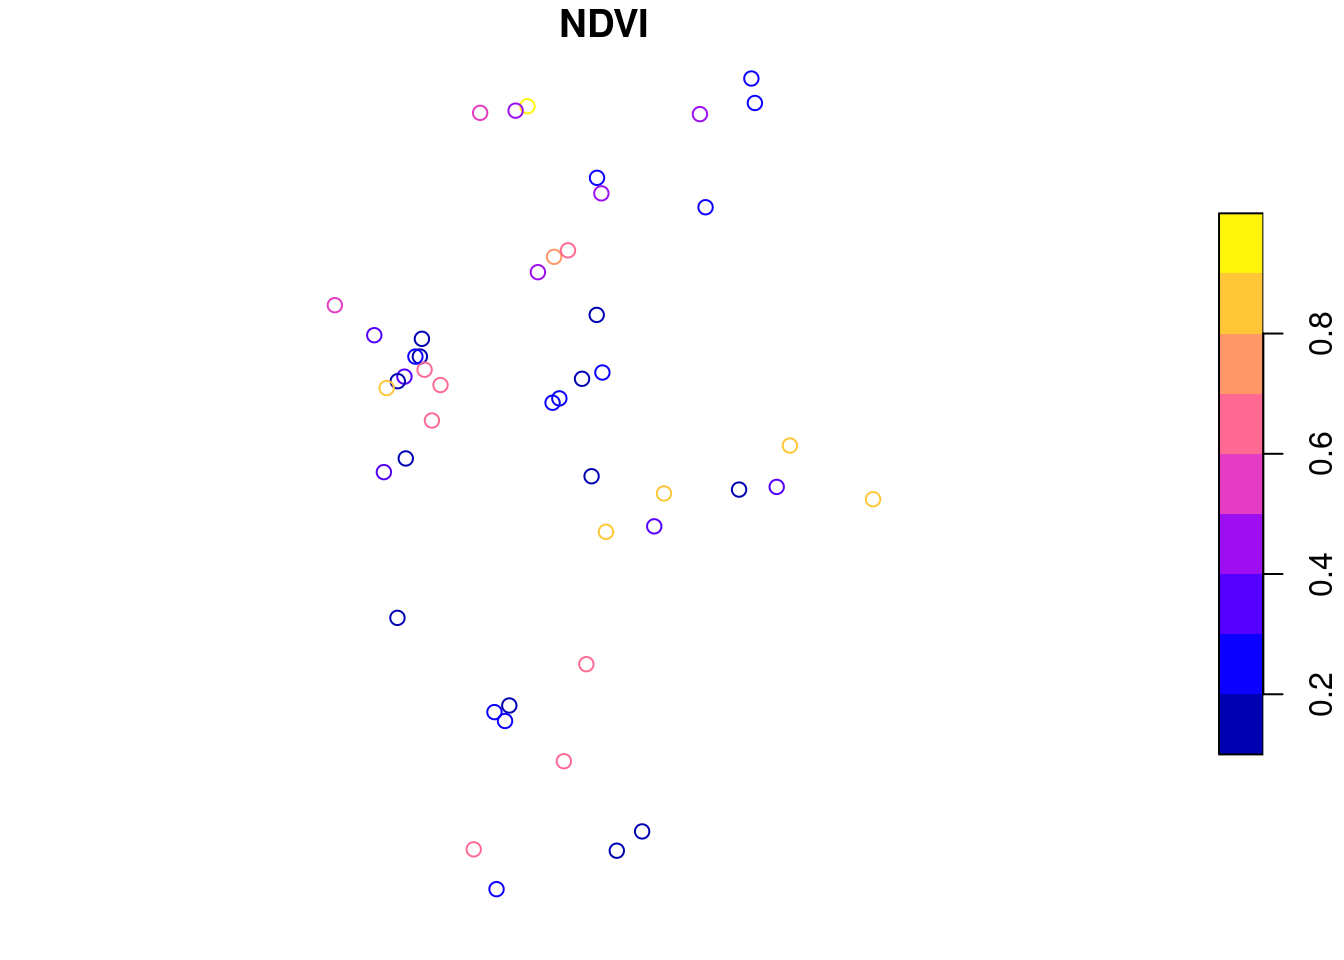
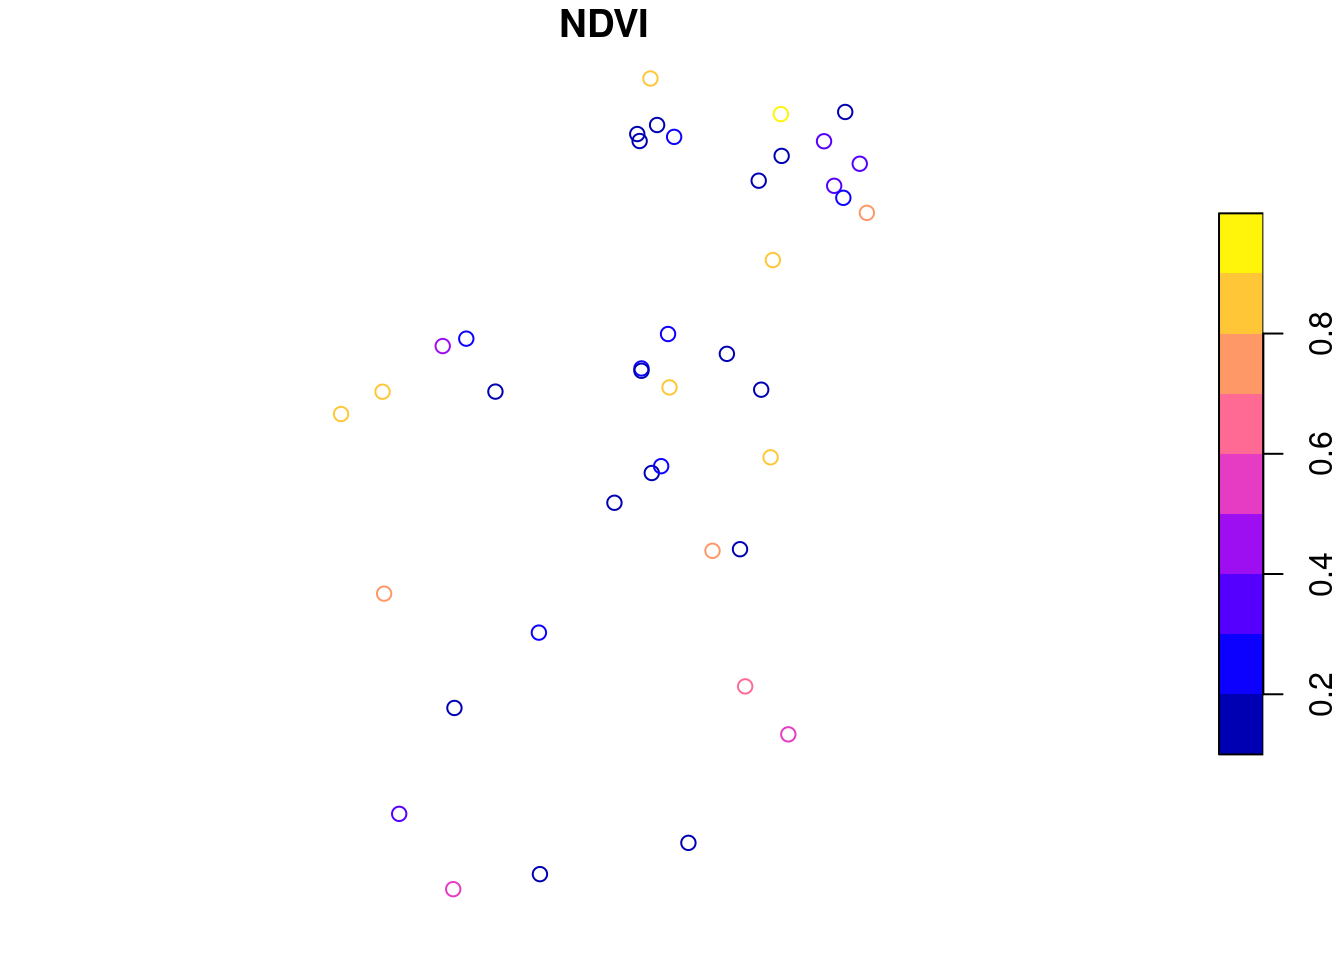
update ex03

diff --git a/docs/ex03.html b/docs/ex03.html
@@ -271,21 +271,21 @@ div.csl-indent {
 <span id="cb4-12"><a href="#cb4-12" aria-hidden="true" tabindex="-1"></a>items</span></code><button title="Copy to Clipboard" class="code-copy-button"><i class="bi"></i></button></pre></div>
 <div class="cell-output cell-output-stdout">
 <pre><code>##      xmin      ymin      xmax      ymax 
-##  7.911385 48.007580 14.909136 54.597501 
+##  6.349523 47.962605 14.570052 54.729144 
 ## ###STACItemCollection
-## - matched feature(s): 4246
-## - features (4246 item(s) / 0 not fetched):
+## - matched feature(s): 5582
+## - features (5582 item(s) / 0 not fetched):
+##   - S2B_32ULV_20180930_0_L2A
 ##   - S2B_32UME_20180930_0_L2A
 ##   - S2B_32UNF_20180930_0_L2A
-##   - S2B_32UMB_20180930_0_L2A
-##   - S2B_32UMD_20180930_0_L2A
-##   - S2B_32UNC_20180930_0_L2A
-##   - S2B_32UPF_20180930_0_L2A
-##   - S2B_32UMA_20180930_0_L2A
-##   - S2B_32UMC_20180930_0_L2A
-##   - S2B_32UNE_20180930_0_L2A
-##   - S2B_32UMV_20180930_0_L2A
-##   - ... with 4236 more feature(s).
+##   - S2B_32ULF_20180930_0_L2A
+##   - S2B_31UGQ_20180930_0_L2A
+##   - S2B_31UGU_20180930_0_L2A
+##   - S2B_31UGV_20180930_0_L2A
+##   - S2B_32ULA_20180930_0_L2A
+##   - S2B_31UGP_20180930_0_L2A
+##   - S2B_31UGR_20180930_0_L2A
+##   - ... with 5572 more feature(s).
 ## - assets: 
 ## overview, thumbnail, metadata, B11, B01, B12, B02, B03, B04, AOT, B05, B06, B07, B08, B8A, B09, WVP, visual, SCL, info
 ## - other field(s): 
@@ -315,31 +315,31 @@ div.csl-indent {
 <div class="sourceCode cell-code" id="cb7"><pre class="sourceCode r code-with-copy"><code class="sourceCode r"><span id="cb7-1"><a href="#cb7-1" aria-hidden="true" tabindex="-1"></a>s2_collection <span class="ot">=</span> <span class="fu">image_collection</span>(<span class="st">"S2_de_2018.db"</span>)</span>
 <span id="cb7-2"><a href="#cb7-2" aria-hidden="true" tabindex="-1"></a>s2_collection</span></code><button title="Copy to Clipboard" class="code-copy-button"><i class="bi"></i></button></pre></div>
 <div class="cell-output cell-output-stdout">
-<pre><code>## Image collection object, referencing 1358 images with 5 bands
+<pre><code>## Image collection object, referencing 1719 images with 5 bands
 ## Images:
-##                       name      left      top   bottom     right
-## 1 S2B_32UMB_20180930_0_L2A  7.560563 51.45114 50.45528  8.908829
-## 2 S2B_32UMD_20180930_0_L2A  7.500956 53.24953 52.25346  9.146262
-## 3 S2B_32UNC_20180930_0_L2A  8.999721 52.35046 51.62562  9.383598
-## 4 S2B_32UPF_20180930_0_L2A 10.540773 55.03692 54.40879 10.913343
-## 5 S2B_32UMA_20180930_0_L2A  7.588101 50.55099 49.55650  8.451982
-## 6 S2B_32UMC_20180930_0_L2A  7.531544 52.35038 51.35444  9.143276
+##                       name     left      top   bottom    right
+## 1 S2B_32ULV_20180930_0_L2A 6.230946 49.64597 48.63304 7.763442
+## 2 S2B_31UGQ_20180930_0_L2A 5.714101 49.61960 48.58836 7.285031
+## 3 S2B_31UGU_20180930_0_L2A 5.927835 53.21198 52.17549 7.634167
+## 4 S2B_32ULA_20180930_0_L2A 6.178682 50.54532 49.53174 7.752769
+## 5 S2B_31UGP_20180930_0_L2A 5.667023 48.72092 47.69193 7.208270
+## 6 S2B_31UGR_20180930_0_L2A 5.763559 50.51810 49.48563 7.365728
 ##              datetime        srs
 ## 1 2018-09-30T10:44:11 EPSG:32632
-## 2 2018-09-30T10:44:11 EPSG:32632
-## 3 2018-09-30T10:44:11 EPSG:32632
+## 2 2018-09-30T10:44:11 EPSG:32631
+## 3 2018-09-30T10:44:11 EPSG:32631
 ## 4 2018-09-30T10:44:11 EPSG:32632
-## 5 2018-09-30T10:44:11 EPSG:32632
-## 6 2018-09-30T10:44:11 EPSG:32632
-## [ omitted 1352 images ] 
+## 5 2018-09-30T10:44:11 EPSG:32631
+## 6 2018-09-30T10:44:11 EPSG:32631
+## [ omitted 1713 images ] 
 ## 
 ## Bands:
 ##   name offset scale unit nodata image_count
-## 1  B02      0     1                    1358
-## 2  B03      0     1                    1358
-## 3  B04      0     1                    1358
-## 4  B08      0     1                    1358
-## 5  SCL      0     1                    1358</code></pre>
+## 1  B02      0     1                    1719
+## 2  B03      0     1                    1719
+## 3  B04      0     1                    1719
+## 4  B08      0     1                    1719
+## 5  SCL      0     1                    1719</code></pre>
 </div>
 </div>
 <div class="cell">
@@ -358,7 +358,7 @@ div.csl-indent {
 ##                low             high  count pixel_size chunk_size
 ## t       2018-04-01       2018-10-02     37        P5D          1
 ## y 6055573.54251774 7370993.54251774 131542         10        768
-## x 827616.484143196  1686796.4841432  85918         10        768
+## x 630847.596478828 1686797.59647883 105595         10        768
 ## 
 ## Bands:
 ##   name offset scale nodata unit
@@ -374,56 +374,49 @@ div.csl-indent {
 <span id="cb11-2"><a href="#cb11-2" aria-hidden="true" tabindex="-1"></a><span class="fu">nrow</span>(ndvi_obs)</span>
 <span id="cb11-3"><a href="#cb11-3" aria-hidden="true" tabindex="-1"></a>ndvi_obs</span></code><button title="Copy to Clipboard" class="code-copy-button"><i class="bi"></i></button></pre></div>
 <div class="cell-output cell-output-stdout">
-<pre><code>## [1] 48
+<pre><code>## [1] 41
 ##    FID       time      NDVI
-## 1   59 2018-05-06 0.8400395
-## 2   11 2018-05-21 0.9251531
-## 3   40 2018-05-21 0.8567150
-## 4    6 2018-05-11 0.8954530
-## 5   49 2018-06-25 0.4926108
-## 6   45 2018-07-10 0.2454473
-## 7   61 2018-06-30 0.6845111
-## 8   10 2018-06-30 0.3199060
-## 9   72 2018-07-15 0.2299230
-## 10  55 2018-06-05 0.6982809
-## 11  26 2018-07-15 0.2339880
-## 12   1 2018-05-26 0.8159437
-## 13  86 2018-06-30 0.3837580
-## 14   5 2018-07-05 0.3259259
-## 15  95 2018-08-19 0.4900243
-## 16  75 2018-08-09 0.1328333
-## 17  28 2018-06-25 0.6762503
-## 18  24 2018-06-05 0.7050465
-## 19  50 2018-07-15 0.1948677
-## 20  90 2018-08-14 0.1112782
-## 21  47 2018-07-25 0.2321518
-## 22  69 2018-07-05 0.6953368
-## 23  33 2018-06-25 0.6020202
-## 24   7 2018-07-15 0.2767469
-## 25  63 2018-07-15 0.2311416
-## 26   3 2018-06-05 0.6657963
-## 27  12 2018-08-19 0.1945780
-## 28  48 2018-07-20 0.1244323
-## 29  21 2018-06-30 0.4771399
-## 30  25 2018-06-30 0.4945055
-## 31  58 2018-07-15 0.1320587
-## 32  38 2018-07-15 0.2028777
-## 33  35 2018-07-25 0.2218453
-## 34  85 2018-06-05 0.8156192
-## 35  89 2018-07-25 0.2615385
-## 36  94 2018-09-03 0.5734682
-## 37  97 2018-09-18 0.6500899
-## 38  34 2018-08-19 0.1534307
-## 39  83 2018-08-14 0.1389144
-## 40  84 2018-07-15 0.3922215
-## 41  23 2018-08-04 0.1628106
-## 42  98 2018-07-05 0.5445732
-## 43  37 2018-09-18 0.3810790
-## 44   4 2018-08-14 0.1573222
-## 45  73 2018-08-14 0.2551469
-## 46  39 2018-07-30 0.1279373
-## 47  78 2018-07-15 0.2071611
-## 48  57 2018-08-14 0.1460849</code></pre>
+## 1   57 2018-05-01 0.8804501
+## 2   30 2018-05-06 0.8050663
+## 3   35 2018-06-05 0.7198088
+## 4   85 2018-06-05 0.8537557
+## 5    1 2018-05-21 0.8391836
+## 6   62 2018-05-21 0.9128920
+## 7   98 2018-07-05 0.3368209
+## 8   52 2018-05-21 0.8626270
+## 9   58 2018-07-10 0.1909882
+## 10  40 2018-07-30 0.1408007
+## 11  12 2018-07-30 0.2224856
+## 12  73 2018-08-14 0.1351557
+## 13  43 2018-05-26 0.6305167
+## 14  34 2018-08-04 0.1770833
+## 15  20 2018-06-15 0.5195870
+## 16   7 2018-06-30 0.2899637
+## 17  54 2018-07-10 0.3022435
+## 18  91 2018-05-21 0.8774093
+## 19  94 2018-07-10 0.1689287
+## 20  86 2018-09-23 0.2425644
+## 21  22 2018-07-10 0.1695410
+## 22  21 2018-07-25 0.1729660
+## 23   3 2018-07-15 0.1894737
+## 24  55 2018-07-05 0.5551574
+## 25  38 2018-07-15 0.2028777
+## 26  16 2018-07-20 0.1965953
+## 27  60 2018-06-30 0.7829303
+## 28  88 2018-09-13 0.1201814
+## 29  53 2018-06-25 0.4928320
+## 30  61 2018-06-05 0.7470802
+## 31  37 2018-07-15 0.3542211
+## 32  13 2018-07-30 0.1968912
+## 33  83 2018-07-30 0.1500595
+## 34  45 2018-07-15 0.2294758
+## 35  72 2018-07-30 0.1219168
+## 36   9 2018-07-30 0.1710145
+## 37  33 2018-07-05 0.2437377
+## 38   2 2018-06-30 0.3162814
+## 39  26 2018-07-20 0.2150664
+## 40  19 2018-07-30 0.1512475
+## 41  92 2018-08-04 0.1296584</code></pre>
 </div>
 </div>
 <p><code>extract_geom()</code> drops any pixels with missing values only. Hence, if a feature is outside the extent of the data cube, or all pixels of a feature are NA due to clouds or unavailability of images, these pixels will not be included in the result. In contrast, if the input features contain overlapping geometries, pixels may be included several times (with different values in the FID column).</p>
@@ -441,23 +434,23 @@ div.csl-indent {
 <p><img src="ex03_files/figure-html/unnamed-chunk-10-1.png" class="img-fluid" width="672"></p>
 </div>
 <div class="cell-output cell-output-stdout">
-<pre><code>## Simple feature collection with 48 features and 5 fields
+<pre><code>## Simple feature collection with 41 features and 5 fields
 ## Geometry type: POINT
 ## Dimension:     XY
-## Bounding box:  xmin: 7.911385 ymin: 48.00758 xmax: 14.90914 ymax: 54.5975
+## Bounding box:  xmin: 7.211101 ymin: 47.96261 xmax: 13.69784 ymax: 54.24233
 ## Geodetic CRS:  WGS 84
 ## First 10 features:
 ##    FID LC1          t       time      NDVI                  geometry
-## 1    1 B11 2018-05-28 2018-05-26 0.8159437 POINT (14.90914 51.17738)
-## 2   10 B11 2018-07-04 2018-06-30 0.3199060 POINT (8.423892 52.51083)
-## 3   11 B11 2018-05-24 2018-05-21 0.9251531 POINT (10.41534 54.37171)
-## 4   12 B11 2018-08-23 2018-08-19 0.1945780 POINT (11.31585 52.67577)
-## 5   21 B11 2018-07-04 2018-06-30 0.4771399 POINT (12.65786 54.30789)
-## 6   23 B11 2018-08-04 2018-08-04 0.1628106 POINT (8.833251 51.50885)
-## 7   24 B11 2018-06-08 2018-06-05 0.7050465  POINT (10.76221 53.1479)
-## 8   25 B11 2018-07-02 2018-06-30 0.4945055 POINT (11.37654 53.66373)
-## 9   26 B11 2018-07-19 2018-07-15 0.2339880 POINT (10.74198 51.96172)
-## 10  28 B11 2018-06-28 2018-06-25 0.6762503 POINT (9.173378 51.81735)</code></pre>
+## 1    1 B11 2018-05-25 2018-05-21 0.8391836  POINT (11.0275 54.24233)
+## 2   12 B11 2018-08-03 2018-07-30 0.2224856 POINT (10.91728 51.99644)
+## 3   13 B11 2018-07-30 2018-07-30 0.1968912 POINT (10.86522 53.81222)
+## 4   16 B11 2018-07-24 2018-07-20 0.1965953 POINT (9.115374 51.81693)
+## 5   19 B11 2018-07-30 2018-07-30 0.1512475 POINT (12.64639 53.64279)
+## 6    2 B11 2018-07-03 2018-06-30 0.3162814 POINT (13.29432 53.41114)
+## 7   20 B11 2018-06-16 2018-06-15 0.5195870 POINT (12.72851 49.16188)
+## 8   21 B11 2018-07-29 2018-07-25 0.1729660 POINT (12.39406 51.83186)
+## 9   22 B11 2018-07-10 2018-07-10 0.1695410 POINT (11.04414 51.18639)
+## 10  26 B11 2018-07-23 2018-07-20 0.2150664 POINT (11.24503 52.26309)</code></pre>
 </div>
 </div>
 </section>
@@ -473,13 +466,13 @@ div.csl-indent {
 <span id="cb15-6"><a href="#cb15-6" aria-hidden="true" tabindex="-1"></a>wheat_timeseries <span class="sc">|&gt;</span></span>
 <span id="cb15-7"><a href="#cb15-7" aria-hidden="true" tabindex="-1"></a>  <span class="fu">ggplot</span>( <span class="fu">aes</span>(<span class="at">x =</span> <span class="fu">as.Date</span>(time), <span class="at">y =</span> NDVI, <span class="at">color =</span> <span class="fu">factor</span>(FID))) <span class="sc">+</span></span>
 <span id="cb15-8"><a href="#cb15-8" aria-hidden="true" tabindex="-1"></a>  <span class="fu">geom_line</span>(<span class="at">size =</span> <span class="fl">0.5</span>) <span class="sc">+</span> </span>
-<span id="cb15-9"><a href="#cb15-9" aria-hidden="true" tabindex="-1"></a>  <span class="fu">ylim</span>(<span class="fu">c</span>(<span class="dv">0</span>,<span class="dv">1</span>)) <span class="sc">+</span> <span class="fu">xlim</span>(<span class="fu">c</span>(<span class="fu">as.Date</span>(<span class="st">"2018-05-01"</span>),<span class="fu">as.Date</span>(<span class="st">"2018-09-30"</span>))) <span class="sc">+</span> </span>
+<span id="cb15-9"><a href="#cb15-9" aria-hidden="true" tabindex="-1"></a>  <span class="fu">ylim</span>(<span class="fu">c</span>(<span class="dv">0</span>,<span class="dv">1</span>)) <span class="sc">+</span> <span class="fu">xlim</span>(<span class="fu">c</span>(<span class="fu">as.Date</span>(<span class="st">"2018-04-01"</span>),<span class="fu">as.Date</span>(<span class="st">"2018-09-30"</span>))) <span class="sc">+</span> </span>
 <span id="cb15-10"><a href="#cb15-10" aria-hidden="true" tabindex="-1"></a>  <span class="fu">xlab</span>(<span class="st">"Time"</span>) <span class="sc">+</span> <span class="fu">ylab</span>(<span class="st">"NDVI"</span>) </span></code><button title="Copy to Clipboard" class="code-copy-button"><i class="bi"></i></button></pre></div>
 <div class="cell-output-display">
 <p><img src="ex03_files/figure-html/unnamed-chunk-11-1.png" class="img-fluid" width="672"></p>
 </div>
 <div class="cell-output cell-output-stdout">
-<pre><code>## [1] 1425</code></pre>
+<pre><code>## [1] 1468</code></pre>
 </div>
 </div>
 
@@ -805,7 +798,7 @@ window.document.addEventListener("DOMContentLoaded", function (event) {
 <span id="cb17-177"><a href="#cb17-177" aria-hidden="true" tabindex="-1"></a>wheat_timeseries <span class="sc">|&gt;</span></span>
 <span id="cb17-178"><a href="#cb17-178" aria-hidden="true" tabindex="-1"></a>  <span class="fu">ggplot</span>( <span class="fu">aes</span>(<span class="at">x =</span> <span class="fu">as.Date</span>(time), <span class="at">y =</span> NDVI, <span class="at">color =</span> <span class="fu">factor</span>(FID))) <span class="sc">+</span></span>
 <span id="cb17-179"><a href="#cb17-179" aria-hidden="true" tabindex="-1"></a>  <span class="fu">geom_line</span>(<span class="at">size =</span> <span class="fl">0.5</span>) <span class="sc">+</span> </span>
-<span id="cb17-180"><a href="#cb17-180" aria-hidden="true" tabindex="-1"></a>  <span class="fu">ylim</span>(<span class="fu">c</span>(<span class="dv">0</span>,<span class="dv">1</span>)) <span class="sc">+</span> <span class="fu">xlim</span>(<span class="fu">c</span>(<span class="fu">as.Date</span>(<span class="st">"2018-05-01"</span>),<span class="fu">as.Date</span>(<span class="st">"2018-09-30"</span>))) <span class="sc">+</span> </span>
+<span id="cb17-180"><a href="#cb17-180" aria-hidden="true" tabindex="-1"></a>  <span class="fu">ylim</span>(<span class="fu">c</span>(<span class="dv">0</span>,<span class="dv">1</span>)) <span class="sc">+</span> <span class="fu">xlim</span>(<span class="fu">c</span>(<span class="fu">as.Date</span>(<span class="st">"2018-04-01"</span>),<span class="fu">as.Date</span>(<span class="st">"2018-09-30"</span>))) <span class="sc">+</span> </span>
 <span id="cb17-181"><a href="#cb17-181" aria-hidden="true" tabindex="-1"></a>  <span class="fu">xlab</span>(<span class="st">"Time"</span>) <span class="sc">+</span> <span class="fu">ylab</span>(<span class="st">"NDVI"</span>) </span>
 <span id="cb17-182"><a href="#cb17-182" aria-hidden="true" tabindex="-1"></a><span class="in">```</span></span>
 <span id="cb17-183"><a href="#cb17-183" aria-hidden="true" tabindex="-1"></a></span>
